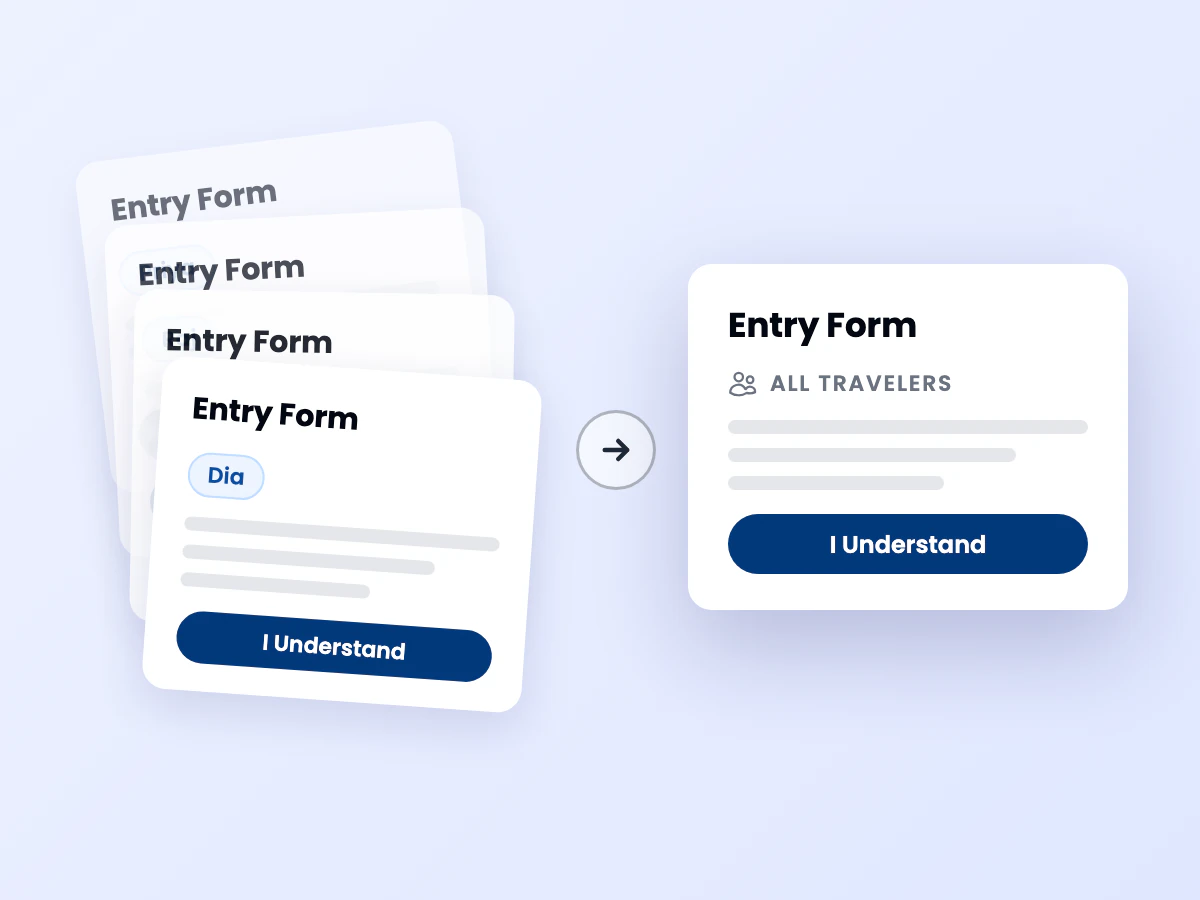
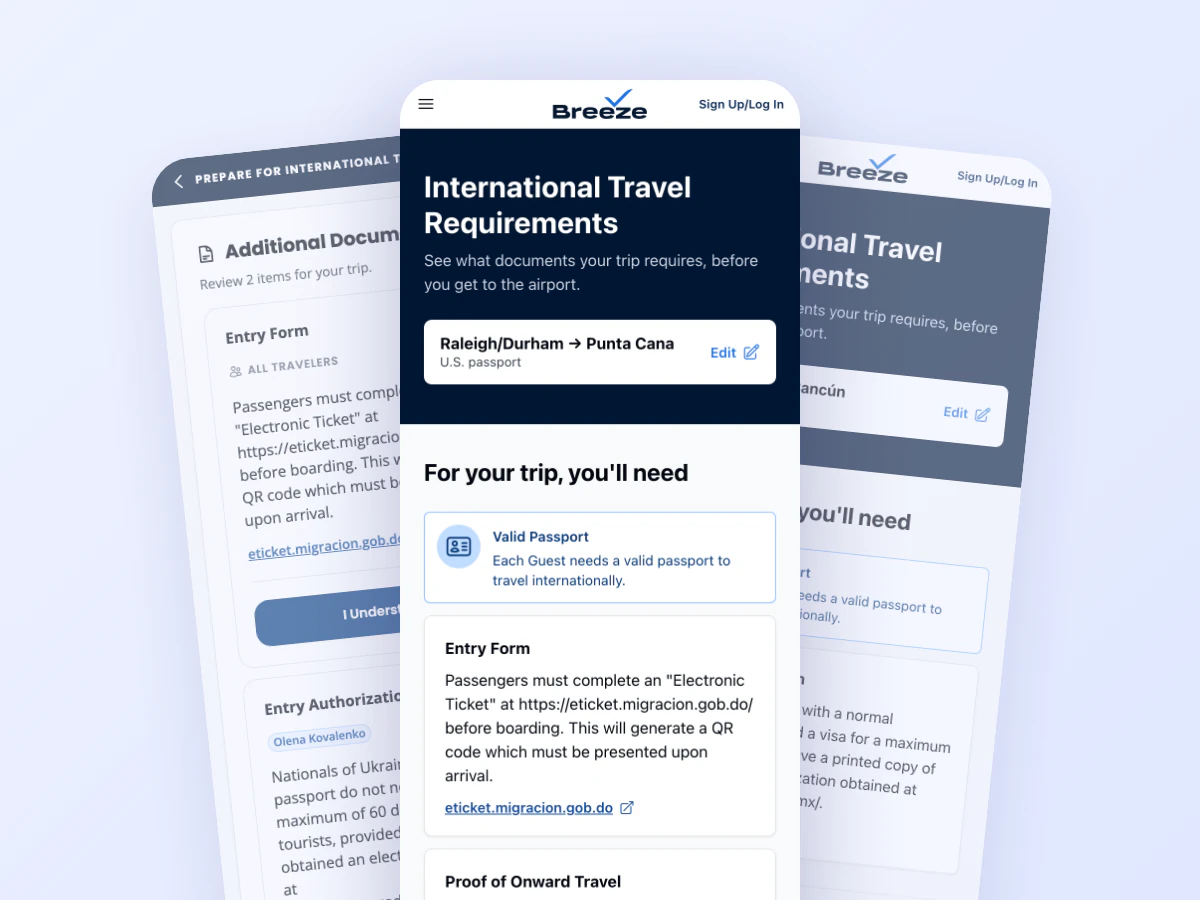
International card and cover rebuilt from real screens to match the set

diff --git a/index.html b/index.html
@@ -113,7 +113,7 @@
                         </span>
                     </a>
                     <a href="case-studies/doc-verification.html" class="case-study-card case-study-card-blue">
-                        <span class="case-study-card-media" style="background-image: url(assets/images/doc-verification/card.webp?v=3);"></span>
+                        <span class="case-study-card-media" style="background-image: url(assets/images/doc-verification/card.webp?v=4);"></span>
                         <span class="case-study-card-copy">
                             <span class="case-study-card-meta caption-spaced">Check-in systems</span>
                             <span class="case-study-card-title header3-primary">System design for international check-in complexity.</span>

diff --git a/case-studies/doc-verification.html b/case-studies/doc-verification.html
@@ -44,7 +44,7 @@
     </header>
 
     <main>
-      <img src="../assets/images/doc-verification/cover.webp?v=3" class="case-header-img" alt="Four per-traveler Entry Form cards collapsing into one card tagged All Travelers">
+      <img src="../assets/images/doc-verification/cover.webp?v=4" class="case-header-img" alt="The International Travel Requirements lookup on a phone, between the check-in documents page and a second lookup result">
         <section class="basic-section">
             <div class="case-titles">
               <a href="../index.html#projects-section" class="back-link">
